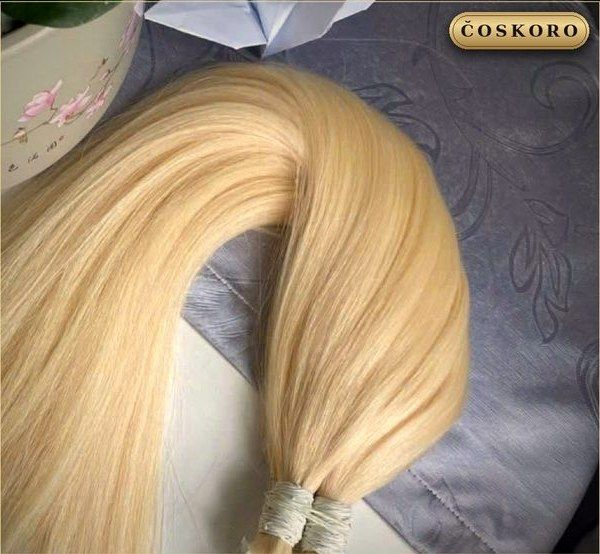
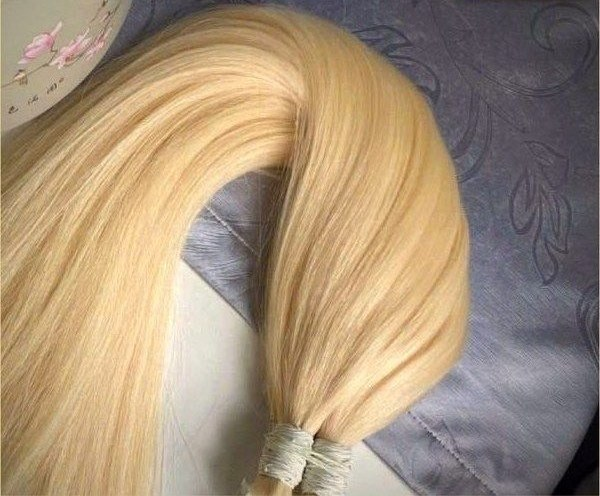
Real hair photos only on product cards; crop baked ČOSKORO badge; fix tag badge; gallery real-only

diff --git a/index.html b/index.html
@@ -18,7 +18,7 @@
 <section id="produkty"><p class="kicker" style="text-align:center">Katalóg</p><h2>Typy predĺženia</h2><div class="grid"><div class="card pcard"><span class="tag">Na mieru</span><img loading="lazy" src="assets/c/15_tapein.jpg" alt="Velora Lux – Tape-in"><div class="body"><span class="meta">Pásiky · pre prirodzený vzhľad</span><h3>Tape-in</h3><p>Ploché pásiky, ktoré sedia na hlave ako tvoje vlastné. Pohodlné aj na každý deň.</p><p class="price">Cena na mieru – napíš nám typ, dĺžku, odtieň a množstvo</p><a class="btn" href="obchod.html#dopyt" data-typ="Tape-in">Chcem ponuku</a></div></div><div class="card pcard"><span class="tag">Na mieru</span><img loading="lazy" src="assets/c/11_keratin_tmave.jpg" alt="Velora Lux – Keratín"><div class="body"><span class="meta">Pramienky · dlhodobo</span><h3>Keratín</h3><p>Pramienky na keratínové spoje pre dlhodobé nosenie a maximálnu voľnosť.</p><p class="price">Cena na mieru – napíš nám typ, dĺžku, odtieň a množstvo</p><a class="btn" href="obchod.html#dopyt" data-typ="Keratín">Chcem ponuku</a></div></div><div class="card pcard"><span class="tag">Na mieru</span><img loading="lazy" src="assets/c/02_blond.jpg" alt="Velora Lux – Clip-in"><div class="body"><span class="meta">Sponky · rýchla premena</span><h3>Clip-in</h3><p>Glow-up za pár minút a večer dole. Bez salóna, bez záväzkov.</p><p class="price">Cena na mieru – napíš nám typ, dĺžku, odtieň a množstvo</p><a class="btn" href="obchod.html#dopyt" data-typ="Clip-in">Chcem ponuku</a></div></div><div class="card pcard"><span class="tag">Na mieru</span><img loading="lazy" src="assets/c/14_hneda_blond.jpg" alt="Velora Lux – Tresa"><div class="body"><span class="meta">Weft · objem</span><h3>Tresa</h3><p>Pás vlasov na našitie – objem a dĺžka v jednom.</p><p class="price">Cena na mieru – napíš nám typ, dĺžku, odtieň a množstvo</p><a class="btn" href="obchod.html#dopyt" data-typ="Tresa">Chcem ponuku</a></div></div></div><p class="note">Nie si si istá? Sprav <a href="#kviz">kvíz</a> alebo nám pošli fotku vlasov 📸</p></section>
 <section id="kviz"><p class="kicker">Móda s mierou štýlu</p><h2>Aký odtieň ti pristane?</h2><p class="note">Odpovedz na 5 krátkych otázok a odporučíme ti odtieň z našej pripravovanej kolekcie.</p>
 <div class="quiz" id="quiz"><div class="qbar"><span id="qprog"></span></div><div id="qbox"></div></div></section>
-<section id="galeria" class="dark"><h2>Galéria odtieňov</h2><p class="note">Ukážka pripravovanej kolekcie – čoskoro v ponuke.</p><div class="gal"><a href="assets/ai/ref_blonde.webp" target="_blank"><img loading="lazy" src="assets/ai/ref_blonde.webp" alt="Velora Lux – Velora look"></a><a href="assets/ai/ref_angel.webp" target="_blank"><img loading="lazy" src="assets/ai/ref_angel.webp" alt="Velora Lux – Velora Luxury Hair"></a><a href="assets/ai/copy.webp" target="_blank"><img loading="lazy" src="assets/ai/copy.webp" alt="Velora Lux – cop – instant glam"></a><a href="assets/ai/ref_c.webp" target="_blank"><img loading="lazy" src="assets/ai/ref_c.webp" alt="Velora Lux – Velora Luxury Hair"></a><a href="assets/c/launch_poster.jpg" target="_blank"><img loading="lazy" src="assets/c/launch_poster.jpg" alt="Velora Lux – prémiové vlasy, čoskoro"></a><a href="assets/c/01_hneda.jpg" target="_blank"><img loading="lazy" src="assets/c/01_hneda.jpg" alt="Velora Lux – prémiové vlasy, čoskoro"></a><a href="assets/c/02_blond.jpg" target="_blank"><img loading="lazy" src="assets/c/02_blond.jpg" alt="Velora Lux – prémiové vlasy, čoskoro"></a><a href="assets/c/03_odtiene.jpg" target="_blank"><img loading="lazy" src="assets/c/03_odtiene.jpg" alt="Velora Lux – prémiové vlasy, čoskoro"></a><a href="assets/c/04_medena.jpg" target="_blank"><img loading="lazy" src="assets/c/04_medena.jpg" alt="Velora Lux – prémiové vlasy, čoskoro"></a><a href="assets/c/05_tmavohneda.jpg" target="_blank"><img loading="lazy" src="assets/c/05_tmavohneda.jpg" alt="Velora Lux – prémiové vlasy, čoskoro"></a><a href="assets/c/06_medova_blond.jpg" target="_blank"><img loading="lazy" src="assets/c/06_medova_blond.jpg" alt="Velora Lux – prémiové vlasy, čoskoro"></a><a href="assets/c/07_paleta.jpg" target="_blank"><img loading="lazy" src="assets/c/07_paleta.jpg" alt="Velora Lux – prémiové vlasy, čoskoro"></a><a href="assets/c/08_prirodne.jpg" target="_blank"><img loading="lazy" src="assets/c/08_prirodne.jpg" alt="Velora Lux – prémiové vlasy, čoskoro"></a><a href="assets/c/09_kolekcia.jpg" target="_blank"><img loading="lazy" src="assets/c/09_kolekcia.jpg" alt="Velora Lux – prémiové vlasy, čoskoro"></a><a href="assets/c/10_svetla_blond.jpg" target="_blank"><img loading="lazy" src="assets/c/10_svetla_blond.jpg" alt="Velora Lux – prémiové vlasy, čoskoro"></a><a href="assets/c/11_keratin_tmave.jpg" target="_blank"><img loading="lazy" src="assets/c/11_keratin_tmave.jpg" alt="Velora Lux – prémiové vlasy, čoskoro"></a><a href="assets/c/12_blond_melir.jpg" target="_blank"><img loading="lazy" src="assets/c/12_blond_melir.jpg" alt="Velora Lux – prémiové vlasy, čoskoro"></a><a href="assets/c/13_kolekcia_blond.jpg" target="_blank"><img loading="lazy" src="assets/c/13_kolekcia_blond.jpg" alt="Velora Lux – prémiové vlasy, čoskoro"></a><a href="assets/c/14_hneda_blond.jpg" target="_blank"><img loading="lazy" src="assets/c/14_hneda_blond.jpg" alt="Velora Lux – prémiové vlasy, čoskoro"></a><a href="assets/c/15_tapein.jpg" target="_blank"><img loading="lazy" src="assets/c/15_tapein.jpg" alt="Velora Lux – prémiové vlasy, čoskoro"></a><a href="assets/c/16_keratin_odtiene.jpg" target="_blank"><img loading="lazy" src="assets/c/16_keratin_odtiene.jpg" alt="Velora Lux – prémiové vlasy, čoskoro"></a><a href="assets/c/17_melir_balayage.jpg" target="_blank"><img loading="lazy" src="assets/c/17_melir_balayage.jpg" alt="Velora Lux – prémiové vlasy, čoskoro"></a></div></section>
+<section id="galeria" class="dark"><h2>Galéria odtieňov</h2><p class="note">Ukážka pripravovanej kolekcie – čoskoro v ponuke.</p><div class="gal"><a href="assets/c/launch_poster.jpg" target="_blank"><img loading="lazy" src="assets/c/launch_poster.jpg" alt="Velora Lux – prémiové vlasy, čoskoro"></a><a href="assets/c/01_hneda.jpg" target="_blank"><img loading="lazy" src="assets/c/01_hneda.jpg" alt="Velora Lux – prémiové vlasy, čoskoro"></a><a href="assets/c/02_blond.jpg" target="_blank"><img loading="lazy" src="assets/c/02_blond.jpg" alt="Velora Lux – prémiové vlasy, čoskoro"></a><a href="assets/c/03_odtiene.jpg" target="_blank"><img loading="lazy" src="assets/c/03_odtiene.jpg" alt="Velora Lux – prémiové vlasy, čoskoro"></a><a href="assets/c/04_medena.jpg" target="_blank"><img loading="lazy" src="assets/c/04_medena.jpg" alt="Velora Lux – prémiové vlasy, čoskoro"></a><a href="assets/c/05_tmavohneda.jpg" target="_blank"><img loading="lazy" src="assets/c/05_tmavohneda.jpg" alt="Velora Lux – prémiové vlasy, čoskoro"></a><a href="assets/c/06_medova_blond.jpg" target="_blank"><img loading="lazy" src="assets/c/06_medova_blond.jpg" alt="Velora Lux – prémiové vlasy, čoskoro"></a><a href="assets/c/07_paleta.jpg" target="_blank"><img loading="lazy" src="assets/c/07_paleta.jpg" alt="Velora Lux – prémiové vlasy, čoskoro"></a><a href="assets/c/08_prirodne.jpg" target="_blank"><img loading="lazy" src="assets/c/08_prirodne.jpg" alt="Velora Lux – prémiové vlasy, čoskoro"></a><a href="assets/c/09_kolekcia.jpg" target="_blank"><img loading="lazy" src="assets/c/09_kolekcia.jpg" alt="Velora Lux – prémiové vlasy, čoskoro"></a><a href="assets/c/10_svetla_blond.jpg" target="_blank"><img loading="lazy" src="assets/c/10_svetla_blond.jpg" alt="Velora Lux – prémiové vlasy, čoskoro"></a><a href="assets/c/11_keratin_tmave.jpg" target="_blank"><img loading="lazy" src="assets/c/11_keratin_tmave.jpg" alt="Velora Lux – prémiové vlasy, čoskoro"></a><a href="assets/c/12_blond_melir.jpg" target="_blank"><img loading="lazy" src="assets/c/12_blond_melir.jpg" alt="Velora Lux – prémiové vlasy, čoskoro"></a><a href="assets/c/13_kolekcia_blond.jpg" target="_blank"><img loading="lazy" src="assets/c/13_kolekcia_blond.jpg" alt="Velora Lux – prémiové vlasy, čoskoro"></a><a href="assets/c/14_hneda_blond.jpg" target="_blank"><img loading="lazy" src="assets/c/14_hneda_blond.jpg" alt="Velora Lux – prémiové vlasy, čoskoro"></a><a href="assets/c/15_tapein.jpg" target="_blank"><img loading="lazy" src="assets/c/15_tapein.jpg" alt="Velora Lux – prémiové vlasy, čoskoro"></a><a href="assets/c/16_keratin_odtiene.jpg" target="_blank"><img loading="lazy" src="assets/c/16_keratin_odtiene.jpg" alt="Velora Lux – prémiové vlasy, čoskoro"></a><a href="assets/c/17_melir_balayage.jpg" target="_blank"><img loading="lazy" src="assets/c/17_melir_balayage.jpg" alt="Velora Lux – prémiové vlasy, čoskoro"></a></div></section>
 <section id="notify"><h2>Dajte mi vedieť o otvorení</h2><form id="n" class="inline"><input type="email" name="email" placeholder="Váš e-mail" required><button class="btn" type="submit">Upozorniť ma</button></form><p class="small">Po kliknutí sa otvorí váš e-mail s pripravenou správou – stačí ju odoslať.</p></section>
 <section id="objednavka" class="dark"><h2>Ako objednať</h2><div class="grid two">
 <div class="card"><h3>🏦 Platba vopred prevodom</h3><p>Objednávku zadáme po pripísaní platby, DHL doručenie cca 3–5 pracovných dní. <a href="obchod.html">Prejsť do obchodu</a></p></div>

diff --git a/style.css b/style.css
@@ -103,3 +103,4 @@ footer a:hover{color:#fff}.fbottom .small{color:#a99f8f;margin:0}.legal-mini{fon
 .legal h1,.legal h2{text-align:left}
 
 /*ai*/.lhero .bg img:only-child{filter:none;width:100%;object-position:70% 30%}.lhero.sm .bg img:only-child{object-position:center}
+/*badge-fix*/.pcard{position:relative}.pcard .tag,.tag{top:12px;left:12px;right:auto;max-width:calc(100% - 24px);white-space:nowrap;overflow:hidden;text-overflow:ellipsis;background:#0b0907d9;color:var(--acc);border:1px solid var(--acc);line-height:1.3;z-index:3}
